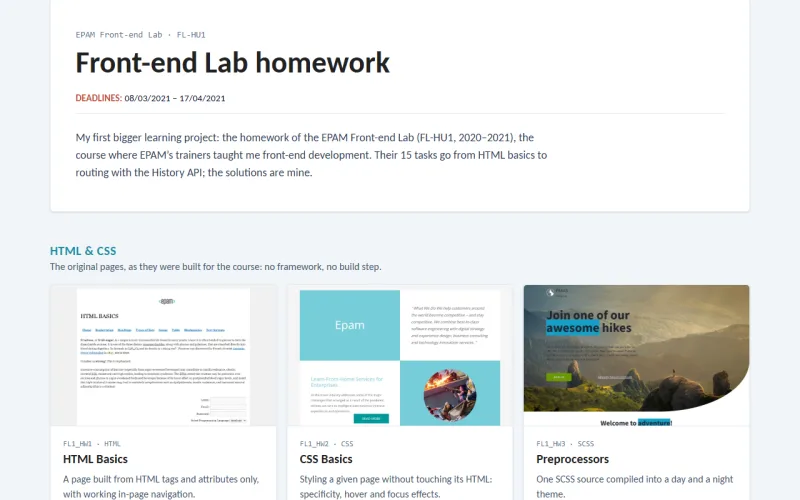
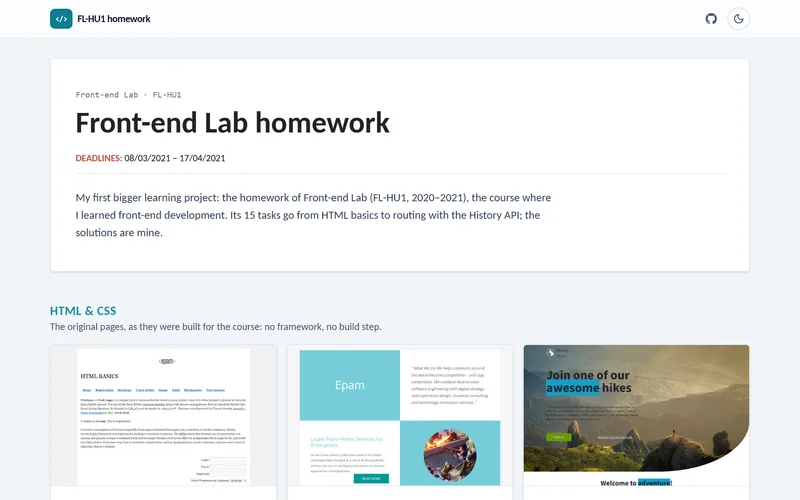
Card links beside the year, the card text centred; Front-end Lab as plain beginner solutions

diff --git a/src/components/ProjectCard.tsx b/src/components/ProjectCard.tsx
@@ -42,8 +42,9 @@ function useFittingLines() {
  *
  * Up to lg the card is portrait: the screenshot on top, the text below it, all of it shown. From
  * lg it is landscape, one card per row, every card the same height: the left half is the
- * screenshot, the right half the year, title, description and tags, with the links at the
- * bottom. The description is clamped to the room left (see useFittingLines).
+ * screenshot, the right half the year and the links on one row, then the title, description
+ * and tags, centred top to bottom. The description is clamped to the room left (see
+ * useFittingLines).
  */
 export function ProjectCard({ project }: { project: Project }) {
   const main = project.live ? 'live' : 'repo'
@@ -51,9 +52,9 @@ export function ProjectCard({ project }: { project: Project }) {
   return (
     // On phones the cards sit in a swipeable row (see Projects): fixed width, snapping into place.
     <div className="relative flex w-[min(85%,22rem)] shrink-0 snap-start md:w-auto">
-      <article className="relative flex flex-1 cursor-pointer flex-col overflow-hidden rounded-2xl border border-line bg-card transition-[scale,border-color,box-shadow] duration-200 hover:border-accent/60 hover:shadow-lg hover:shadow-ink/10 active:scale-[0.98] motion-reduce:transition-none lg:grid lg:h-88 lg:grid-cols-2 lg:grid-rows-[minmax(0,1fr)_auto] lg:active:scale-[0.99]">
+      <article className="relative flex flex-1 cursor-pointer flex-col overflow-hidden rounded-2xl border border-line bg-card transition-[scale,border-color,box-shadow] duration-200 hover:border-accent/60 hover:shadow-lg hover:shadow-ink/10 active:scale-[0.98] motion-reduce:transition-none lg:grid lg:h-88 lg:grid-cols-2 lg:grid-rows-1 lg:active:scale-[0.99]">
         {project.image && (
-          <div className="overflow-hidden border-b border-line lg:col-start-1 lg:row-span-2 lg:row-start-1 lg:border-r lg:border-b-0">
+          <div className="overflow-hidden border-b border-line lg:col-start-1 lg:row-start-1 lg:border-r lg:border-b-0">
             {/* The landscape card (from lg) has its own screenshot in its own shape; the browser
                 downloads only the one it shows. `contents`: the picture adds no box of its own,
                 so the image still fills the frame. */}
@@ -70,8 +71,40 @@ export function ProjectCard({ project }: { project: Project }) {
             </picture>
           </div>
         )}
-        <div className="flex flex-col gap-2.5 px-4 pt-4 sm:px-5 sm:pt-5 lg:col-start-2 lg:row-start-1 lg:min-h-0">
-          <p className="text-xs font-semibold text-muted">{project.year}</p>
+        <div className="flex flex-col gap-2.5 p-4 sm:p-5 lg:col-start-2 lg:row-start-1 lg:min-h-0 lg:justify-center">
+          {/* The year and the links share the top row: the links stay at hand without a row of
+              their own, and the text below gets the room. */}
+          <div className="flex min-h-9 shrink-0 items-center justify-between gap-3">
+            <p className="text-xs font-semibold text-muted">{project.year}</p>
+            {(project.live || project.repo) && (
+              <p className="flex shrink-0 gap-2">
+                {project.live && (
+                  <a
+                    className={`${cardButton.primary} ${aboveCover}`}
+                    href={project.live}
+                    target="_blank"
+                    rel="noreferrer"
+                    title="Live site"
+                  >
+                    <GlobeIcon />
+                    <span className="sr-only">Live site of {project.title}</span>
+                  </a>
+                )}
+                {project.repo && (
+                  <a
+                    className={`${main === 'repo' ? cardButton.primary : cardButton.secondary} ${aboveCover}`}
+                    href={project.repo}
+                    target="_blank"
+                    rel="noreferrer"
+                    title="Code on GitHub"
+                  >
+                    <GitHubIcon />
+                    <span className="sr-only">Code of {project.title} on GitHub</span>
+                  </a>
+                )}
+              </p>
+            )}
+          </div>
           <h4 className="text-lg leading-tight font-bold tracking-tight">{project.title}</h4>
           {/* The box may shrink to the room left and is measured; the text in it is clamped to
               the whole lines that fit, so no half line peeks out below the "…". */}
@@ -92,37 +125,6 @@ export function ProjectCard({ project }: { project: Project }) {
                 </li>
               ))}
             </ul>
-          )}
-        </div>
-        {/* Footer: only the links, pushed to the bottom, so the links of cards in one row line up. */}
-        <div className="mt-auto p-4 sm:px-5 sm:pb-5 lg:col-start-2 lg:row-start-2">
-          {(project.live || project.repo) && (
-            <p className="flex gap-2">
-              {project.live && (
-                <a
-                  className={`${cardButton.primary} ${aboveCover}`}
-                  href={project.live}
-                  target="_blank"
-                  rel="noreferrer"
-                  title="Live site"
-                >
-                  <GlobeIcon />
-                  <span className="sr-only">Live site of {project.title}</span>
-                </a>
-              )}
-              {project.repo && (
-                <a
-                  className={`${main === 'repo' ? cardButton.primary : cardButton.secondary} ${aboveCover}`}
-                  href={project.repo}
-                  target="_blank"
-                  rel="noreferrer"
-                  title="Code on GitHub"
-                >
-                  <GitHubIcon />
-                  <span className="sr-only">Code of {project.title} on GitHub</span>
-                </a>
-              )}
-            </p>
           )}
         </div>
         {/* Clicking anywhere else on the card opens the main link too. This cover is a link of

diff --git a/src/data/projects.ts b/src/data/projects.ts
@@ -149,7 +149,7 @@ export const projects: Project[] = [
     level: 1,
     year: '2021',
     description:
-      'My homework from Front-end Lab, the course before my first developer job: 15 tasks from HTML basics to routing with the History API. The HTML, CSS and Bootstrap pages run as they were built; the JavaScript tasks are rebuilt with React 19 and TypeScript, with tests.',
+      'My homework from Front-end Lab, the course before my first developer job: 15 tasks from HTML basics to routing with the History API. Simple beginner solutions in plain HTML, CSS, Bootstrap and JavaScript, tidied up in 2026.',
     tags: ['HTML', 'SCSS', 'Bootstrap', 'JavaScript', 'Git'],
     live: 'https://mazsola739.github.io/rika-fl-hu1/',
     repo: 'https://github.com/mazsola739/rika-fl-hu1',
